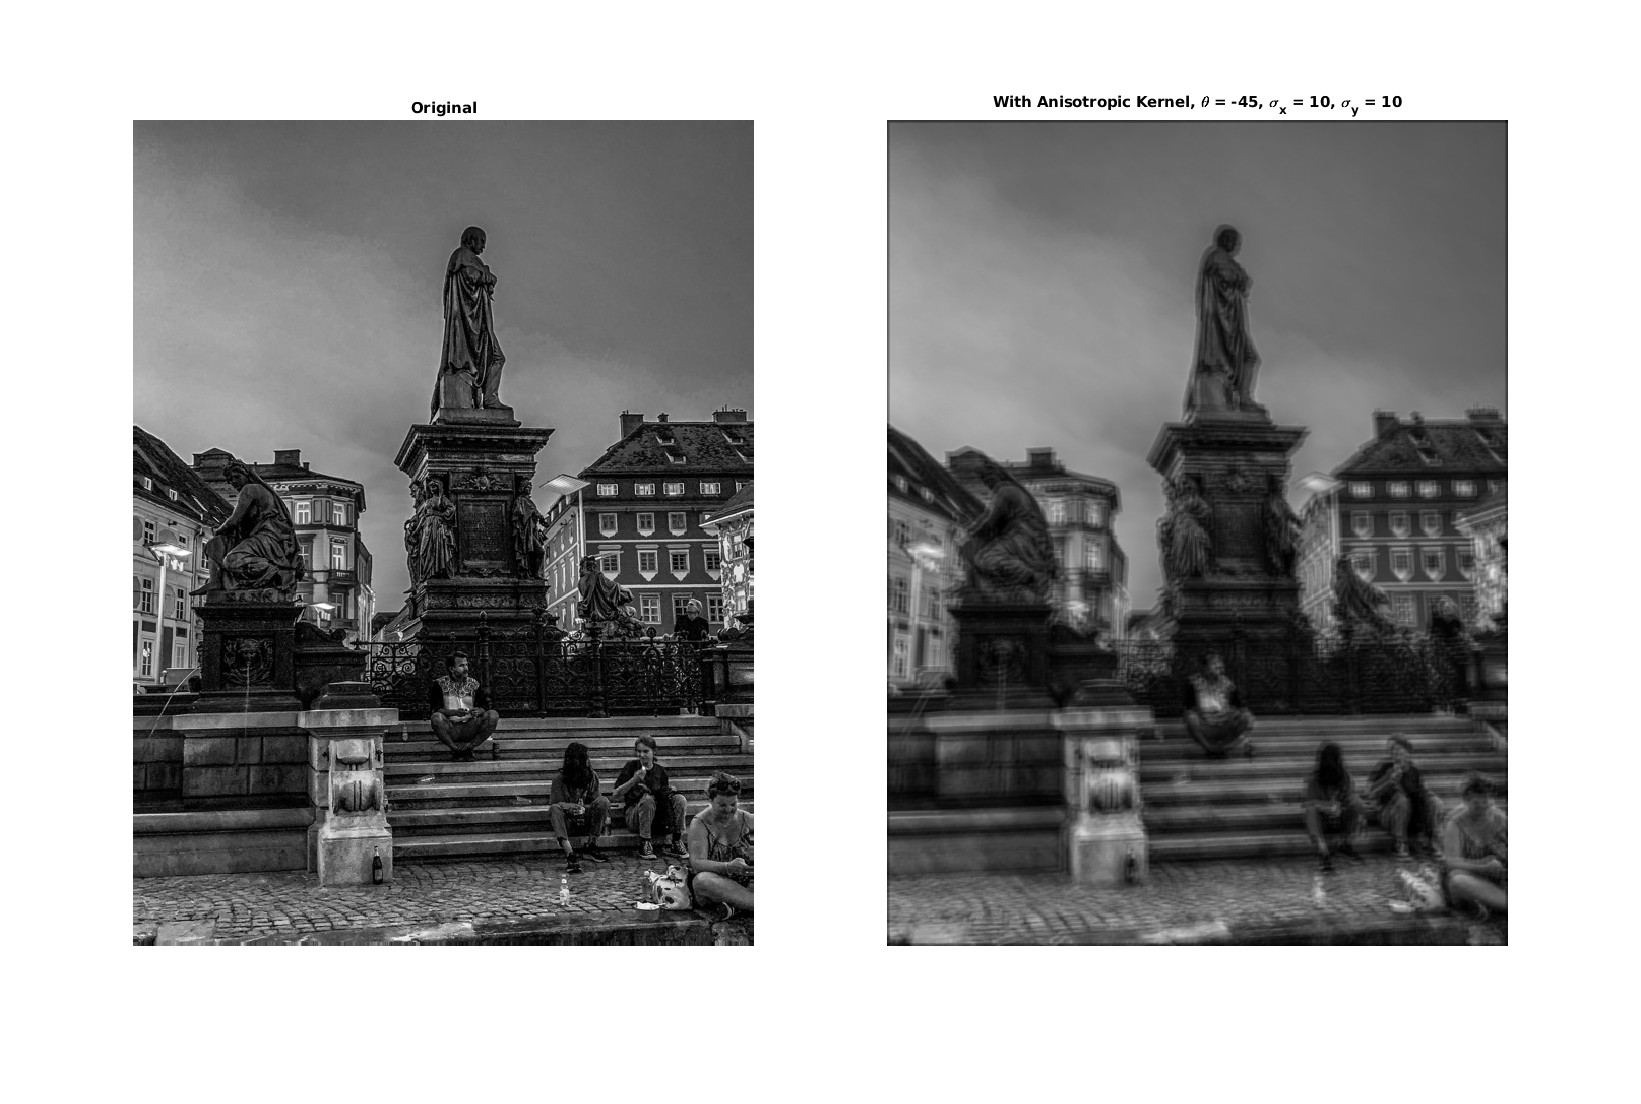
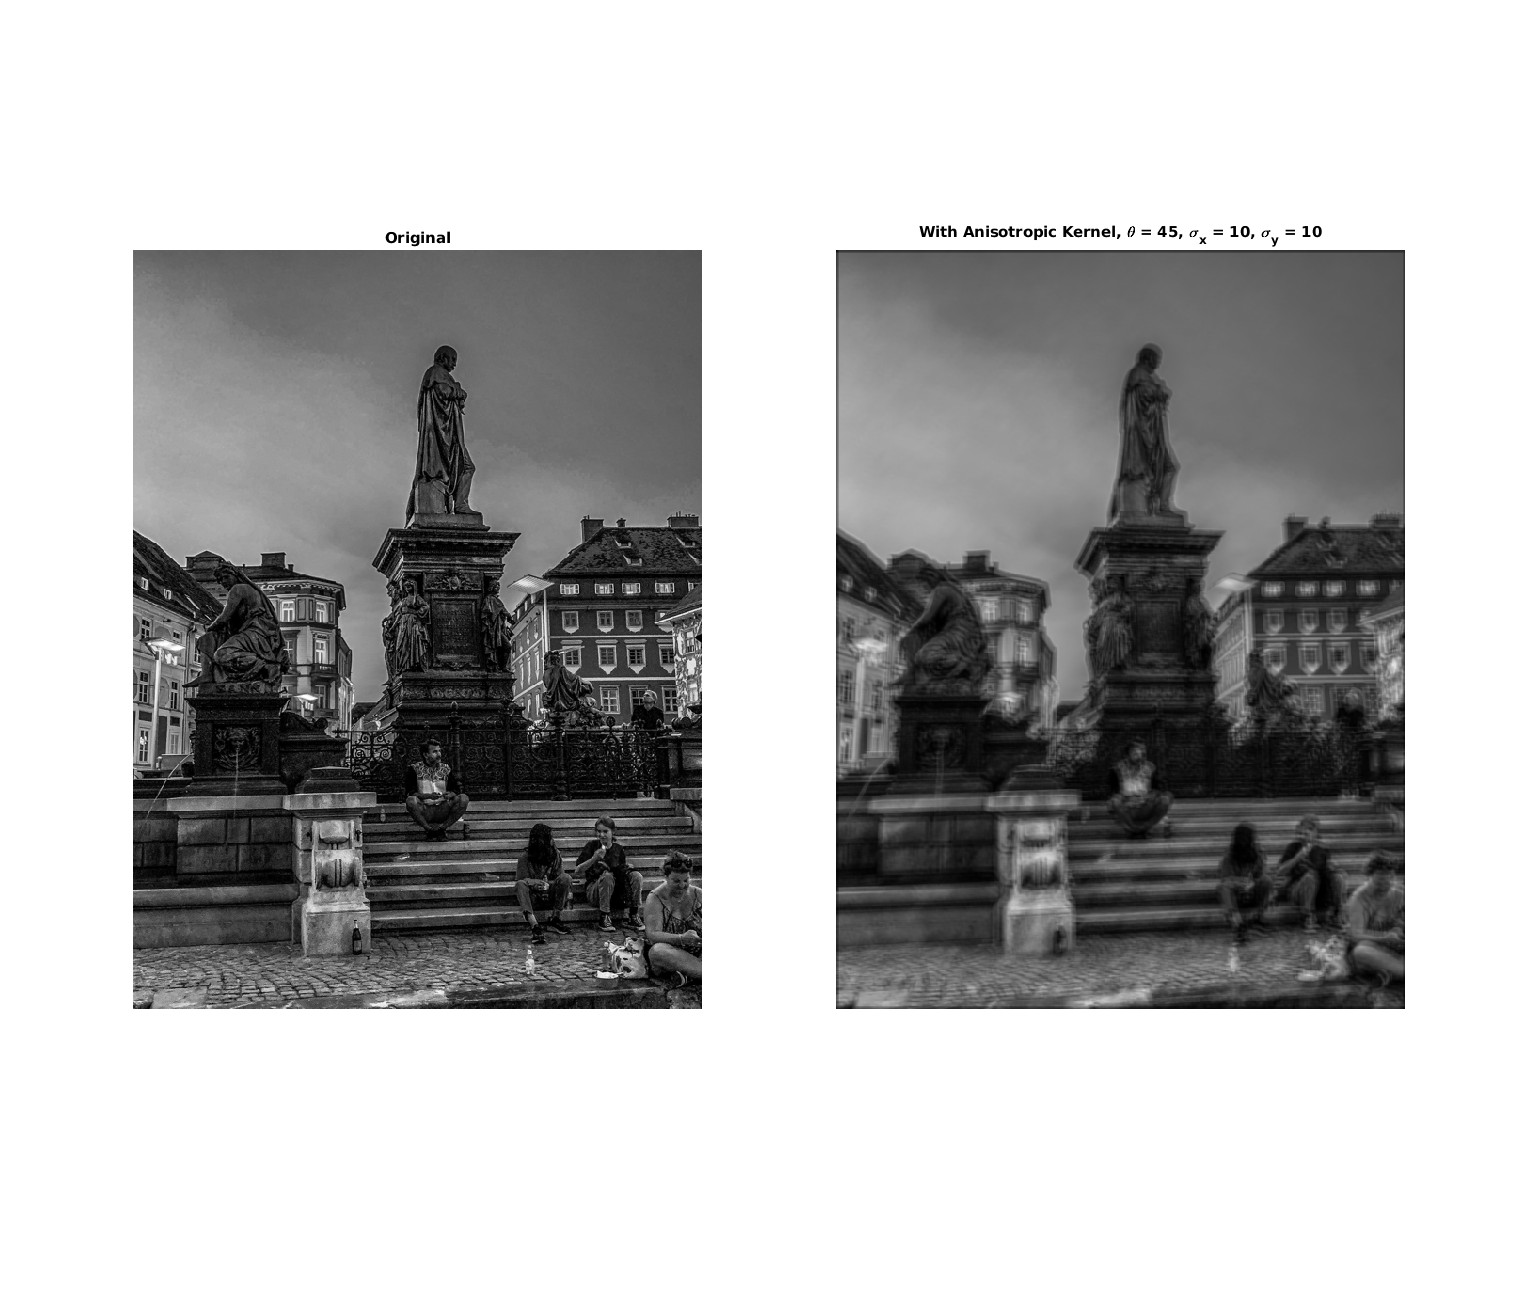
for submission

diff --git a/DIP_Assignment_2/DIP_hw2/linblur.m b/DIP_Assignment_2/DIP_hw2/linblur.m
@@ -1,5 +1,5 @@
 close all;
-theta = -45;
+theta = 45;
 std_x = 10;
 std_y = 10;
 kernel = anisotropic_gaussian_kernel(theta, std_x, std_y);
